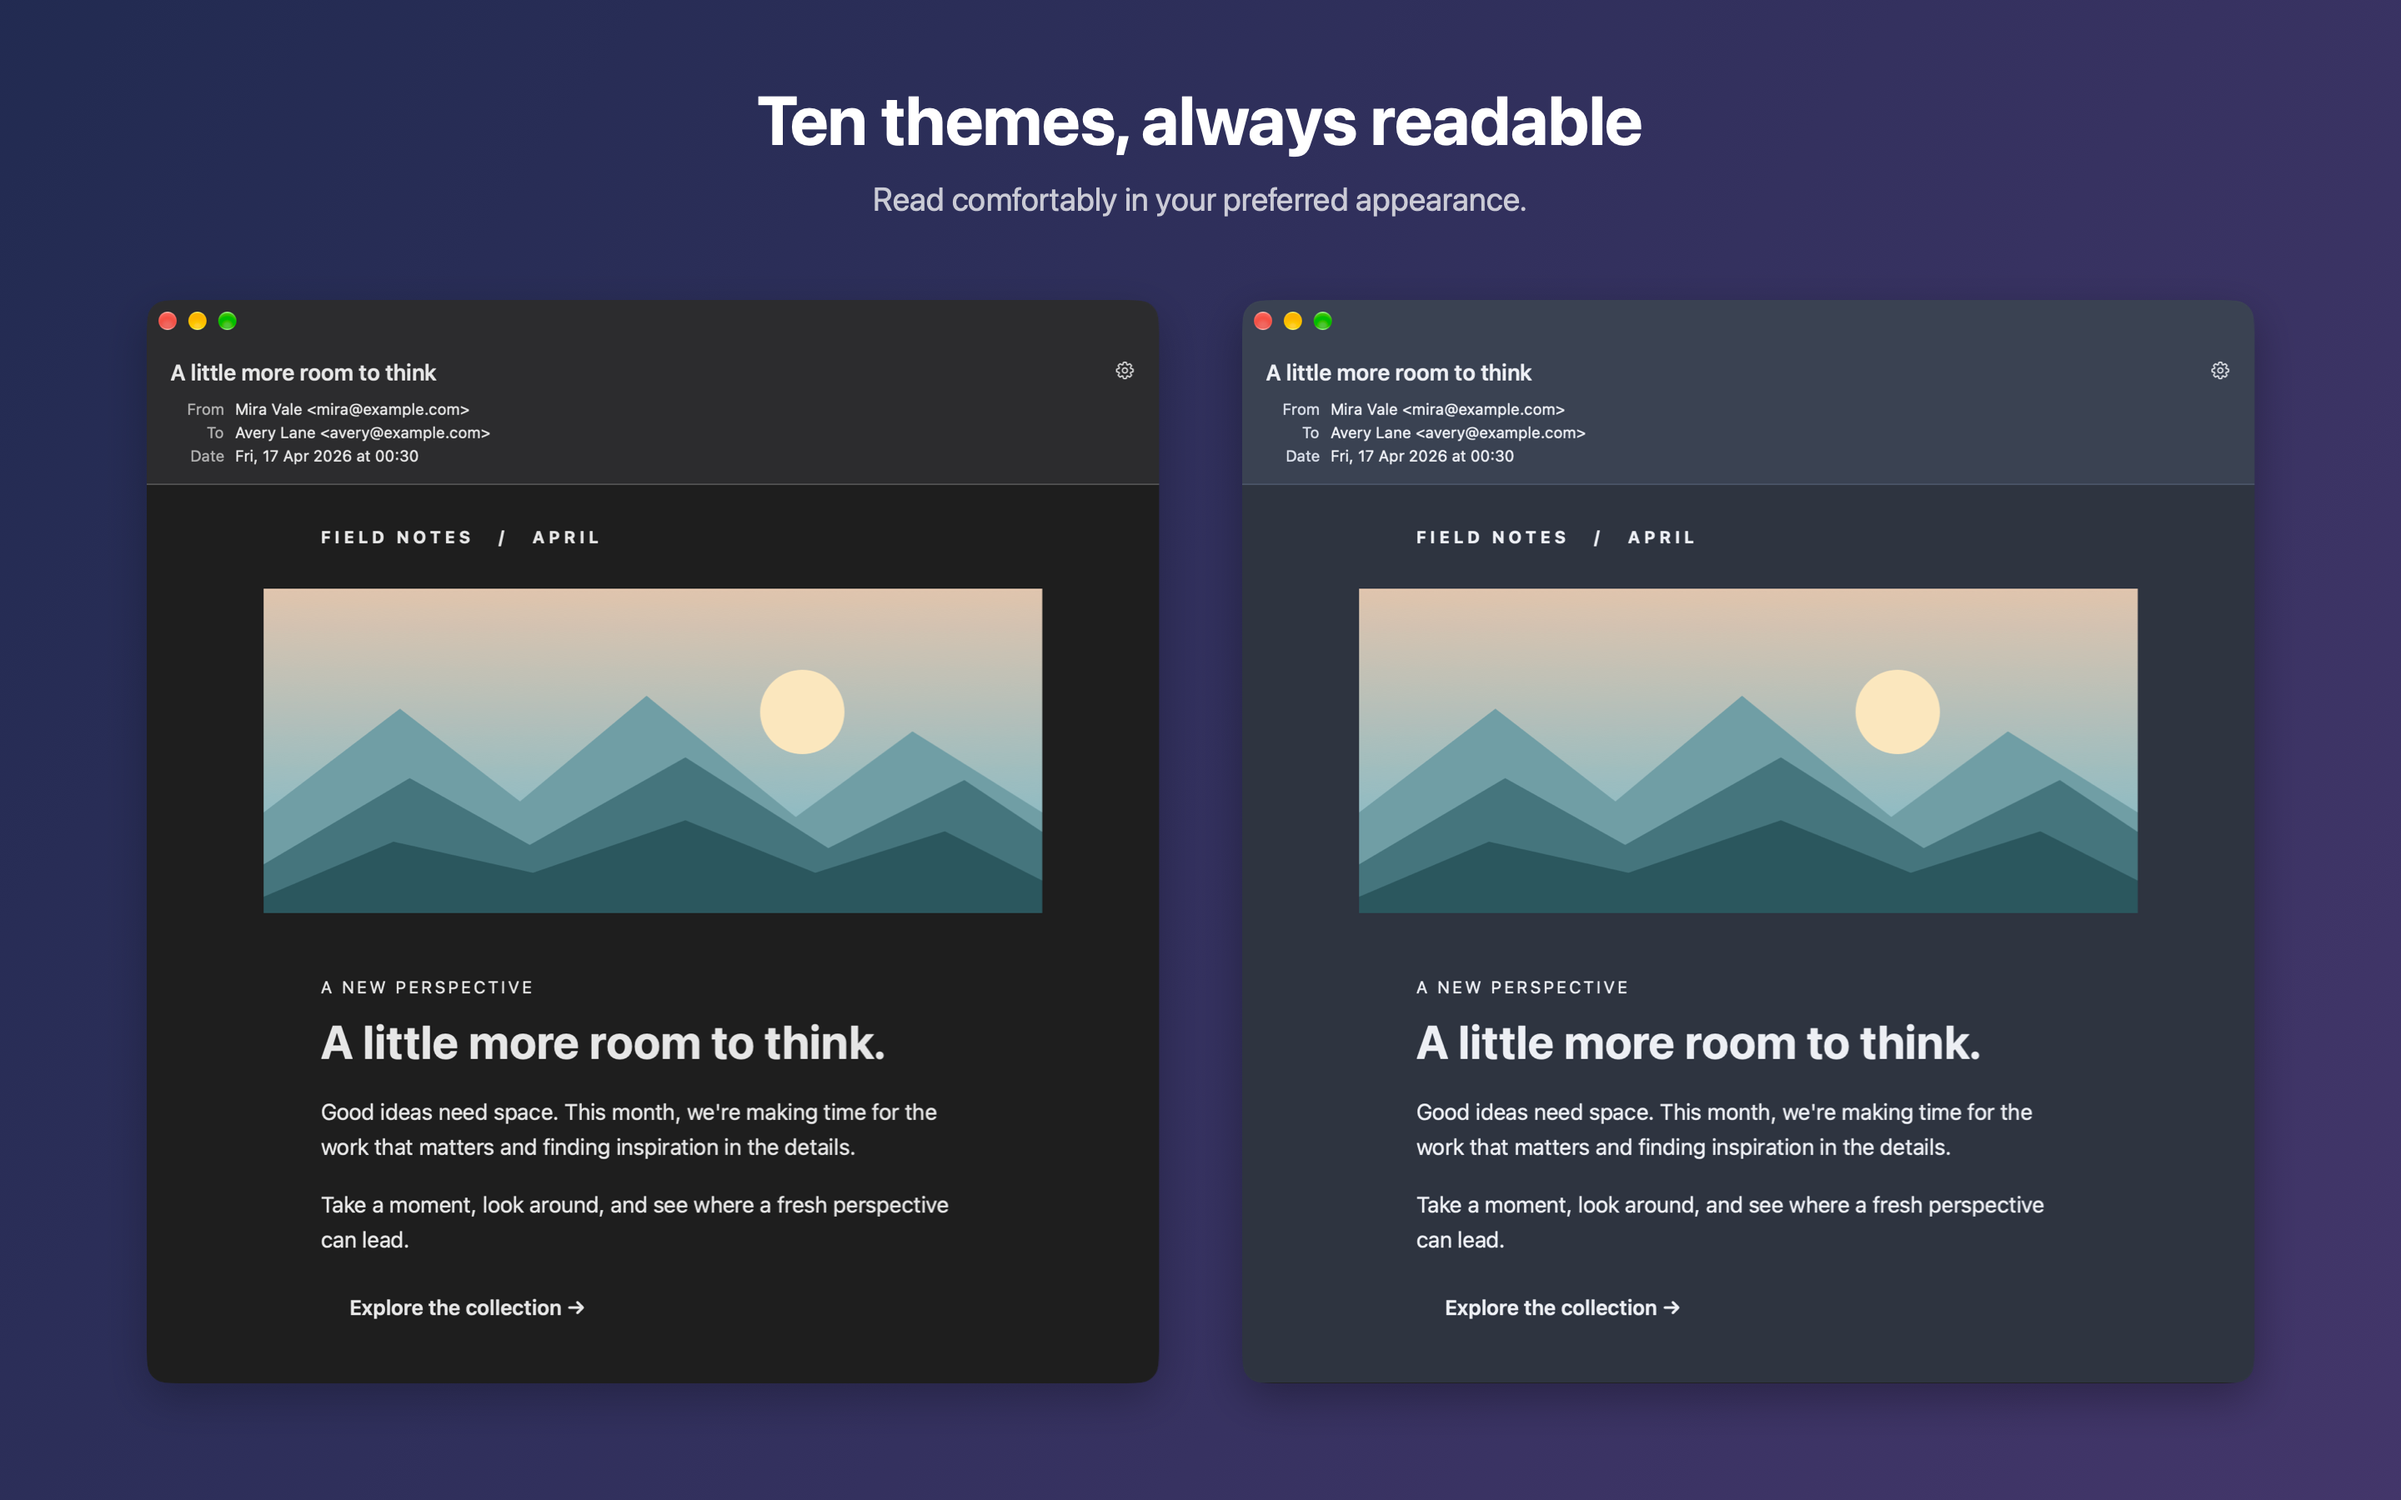
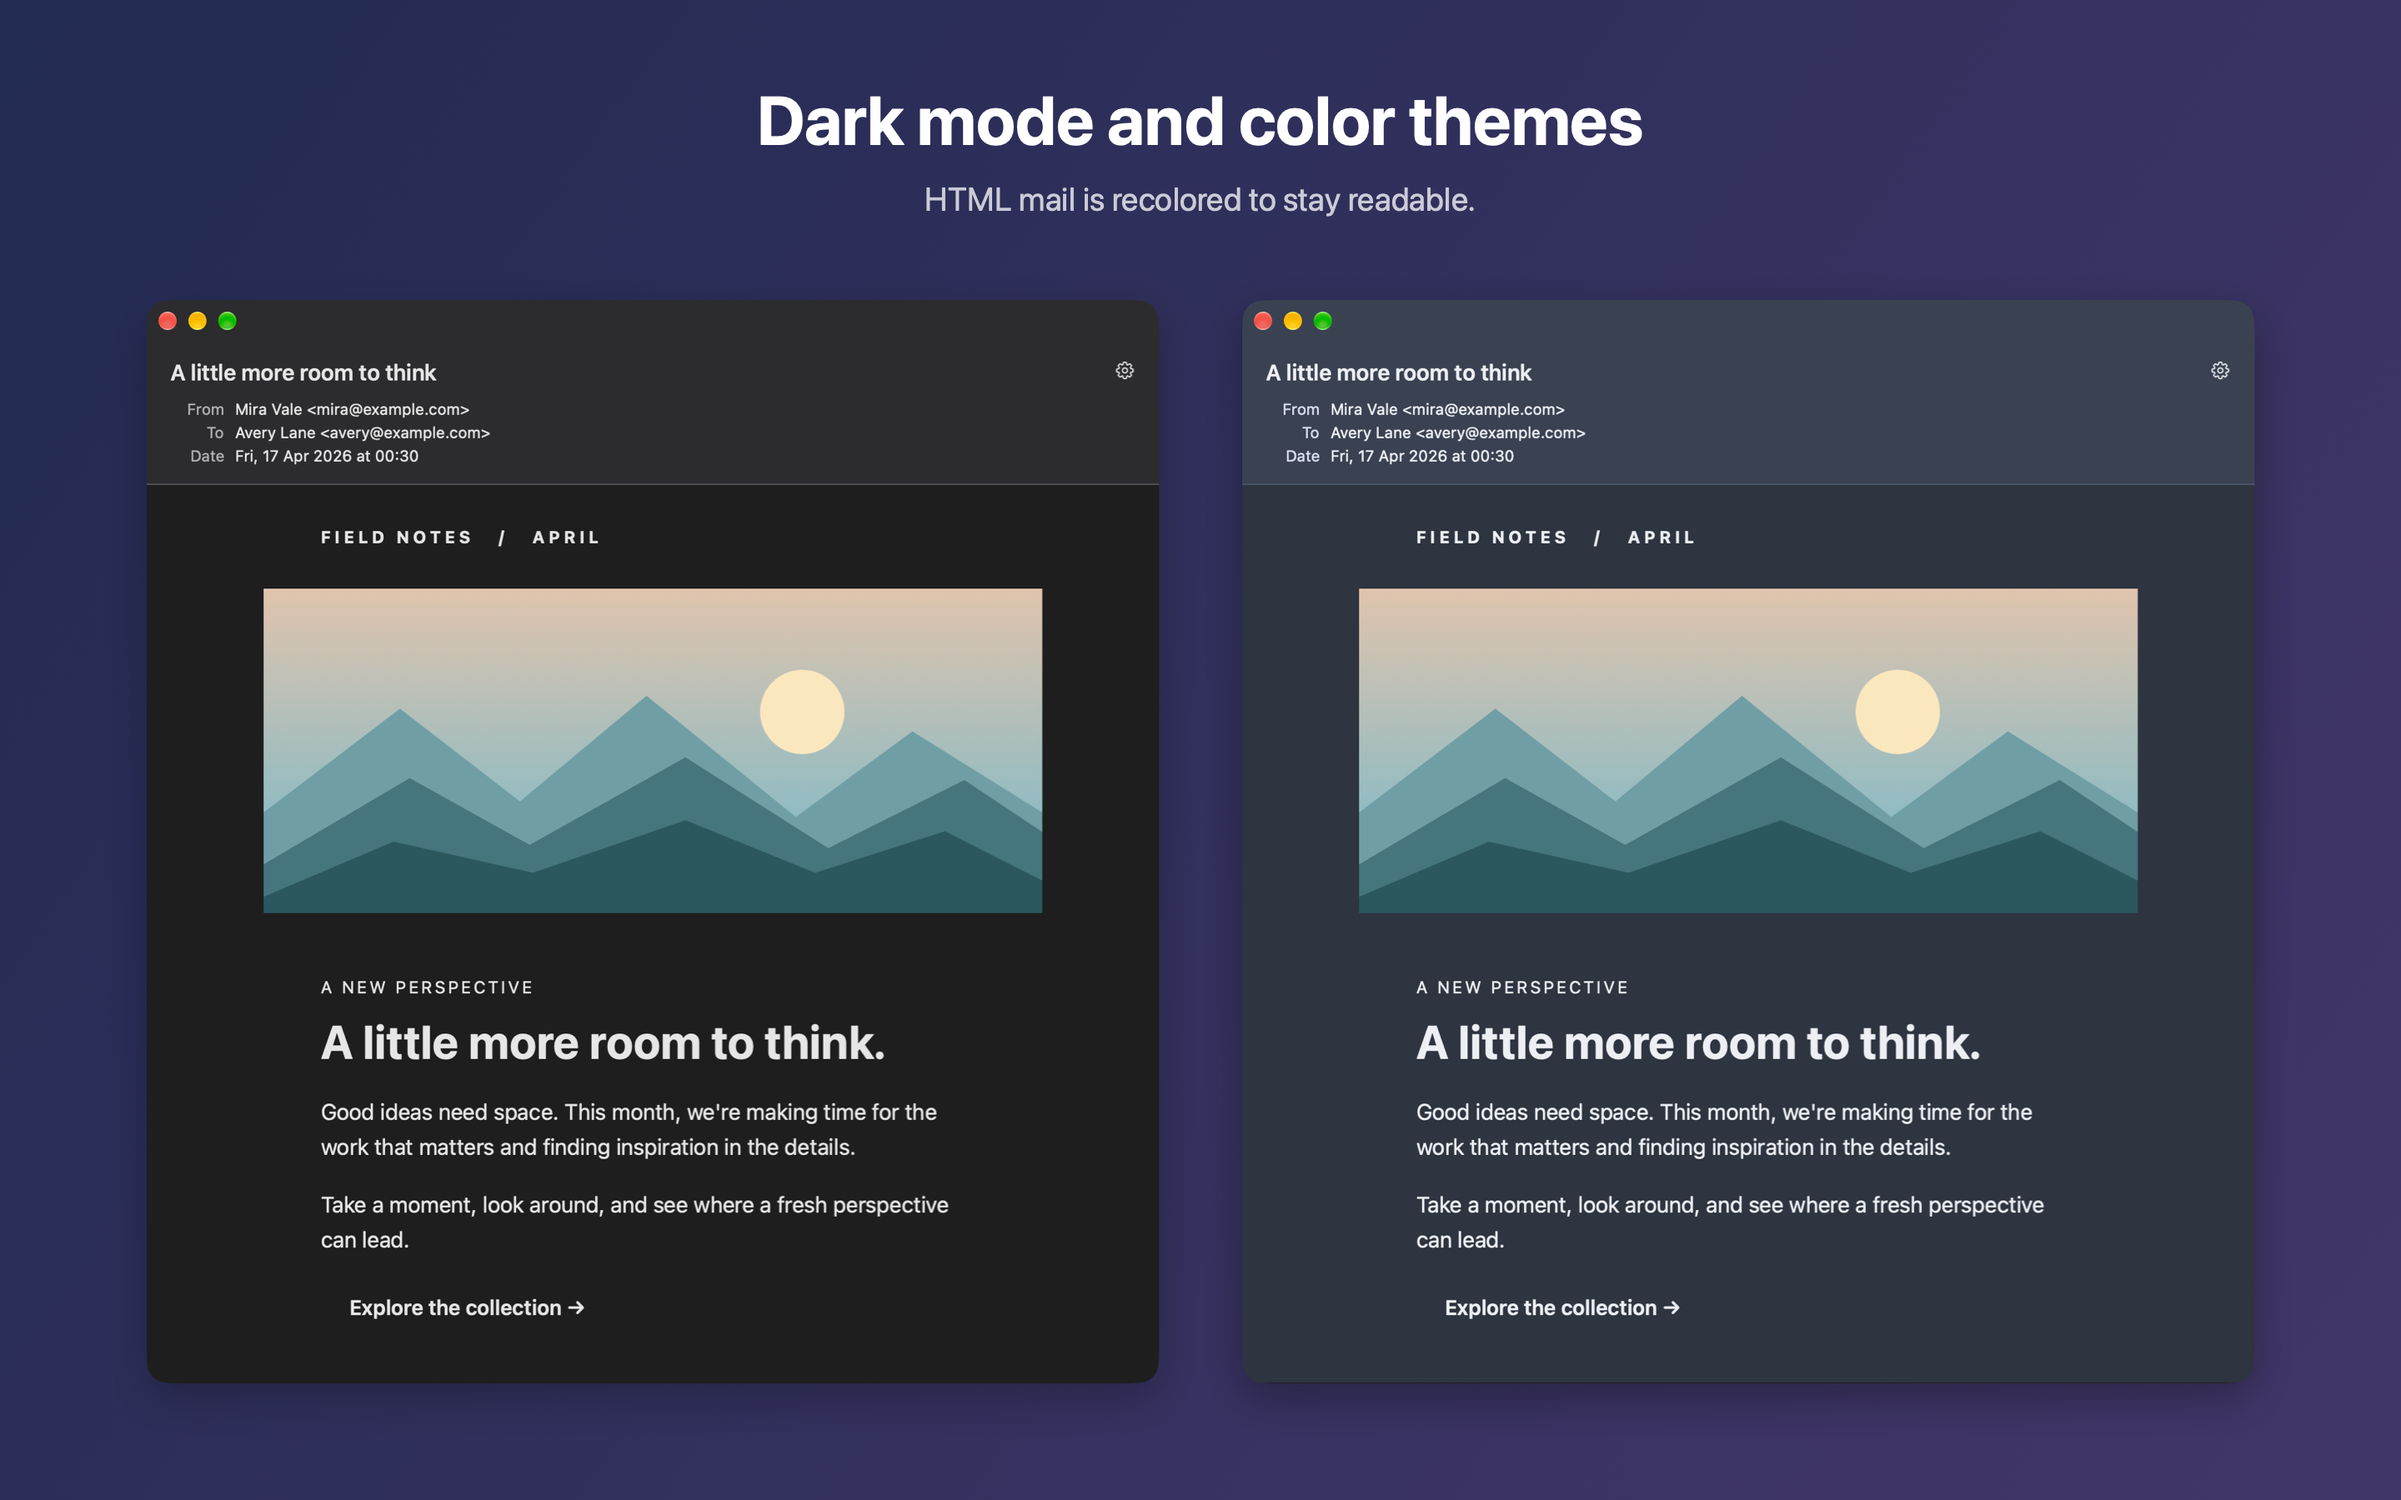
Plain screenshot captions

Changed region(s): [[0.3125, 0.0622, 0.6875, 0.1556]]

diff --git a/Scripts/appstore/compose.swift b/Scripts/appstore/compose.swift
@@ -6,12 +6,12 @@ let raw = root.appendingPathComponent("Scripts/appstore/raw")
 let output = root.appendingPathComponent("AppStore/screenshots/en-US")
 try FileManager.default.createDirectory(at: output, withIntermediateDirectories: true)
 let frames: [(String, String, String, String, Bool)] = [
-    ("01-open-eml", "hero-light", "Every email, beautifully clear", "Open .eml files and see every detail.", false),
-    ("02-open-msg", "outlook", "Outlook messages made simple", "Read .msg files right on your Mac.", false),
-    ("03-attachments", "attachments", "Every attachment within reach", "Find and save your files in one place.", false),
-    ("04-dark", "hero-dark", "Ten themes, always readable", "Read comfortably in your preferred appearance.", true),
-    ("05-settings", "settings-message", "Make reading your own", "Choose your font, size, and appearance.", false),
-    ("06-welcome", "welcome", "Open mail in a click", "A simple home for .eml and .msg files.", false)
+    ("01-open-eml", "hero-light", "Open .eml files without a mail client", "Headers, HTML body and inline images in one window.", false),
+    ("02-open-msg", "outlook", "Open Outlook .msg files", "No Outlook required.", false),
+    ("03-attachments", "attachments", "Open or save attachments", "Open in the default app or save all to a folder.", false),
+    ("04-dark", "hero-dark", "Dark mode and color themes", "HTML mail is recolored to stay readable.", true),
+    ("05-settings", "settings-message", "Font, size and theme", "Set them once in Settings.", false),
+    ("06-welcome", "welcome", "Double-click to open", "Set as the default app for .eml and .msg in Finder.", false)
 ]
 let size = NSSize(width: 2880, height: 1800)
 let cs = CGColorSpace(name: CGColorSpace.sRGB)!
